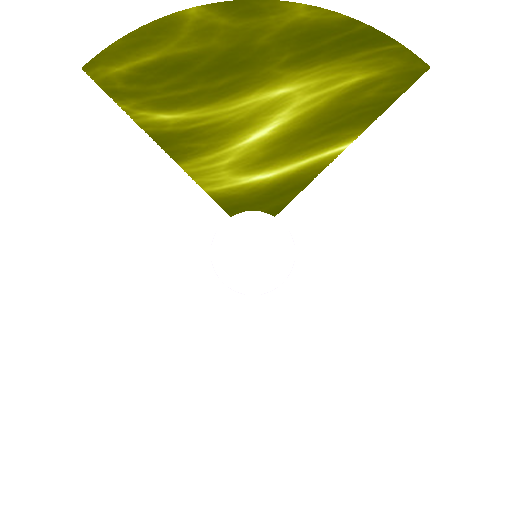
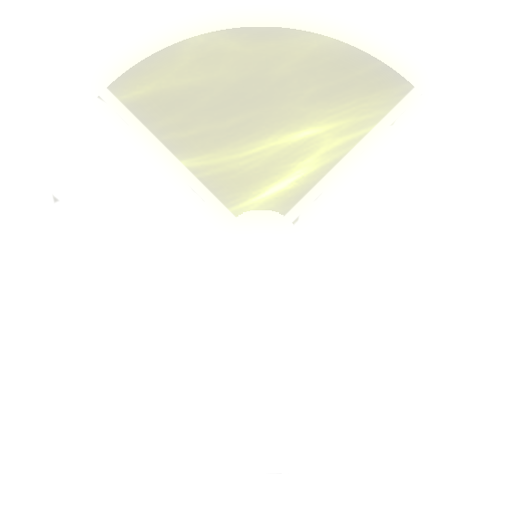
Fixed smoke showing up in the wrong spot in a very disgusting way. Updated push graphics.

Changed region(s): [[0.1562, 0.0, 0.8438, 0.4375]]

diff --git a/Entities/Collidables/EventTrigger.cpp b/Entities/Collidables/EventTrigger.cpp
@@ -20,99 +20,99 @@ void EventTrigger::Render()
 		switch (triggerType)
 		{
 		case (int)triggerID::tutMovement:
-			graphics->DrawRectangle(SGD::Rectangle{ { screenSize.width * .35f, screenSize.height * .6f }, SGD::Size{ screenSize.width * .3f, screenSize.height * .15f } }, { 200, 0, 0, 0 }, { 200, 255, 255, 255 }, 2);
-			Game::GetInstance()->FontSmall.WriteCenter({ { screenSize.width * .35f, screenSize.height * .62f }, SGD::Size{ screenSize.width * .3f, screenSize.height * .05f } }, "Basic Movement");
-			Game::GetInstance()->FontSmall.WriteCenter({ { screenSize.width * .35f, screenSize.height * .68f }, SGD::Size{ screenSize.width * .3f, screenSize.height * .05f } }, "WASD to move. Mouse to aim.");
+			graphics->DrawRectangle(SGD::Rectangle{ { screenSize.width * .30f, screenSize.height * .6f }, SGD::Size{ screenSize.width * .4f, screenSize.height * .15f } }, { 200, 0, 0, 0 }, { 200, 255, 255, 255 }, 2);
+			Game::GetInstance()->FontSmall.WriteCenter({ { screenSize.width * .30f, screenSize.height * .62f }, SGD::Size{ screenSize.width * .4f, screenSize.height * .05f } }, "Basic Movement");
+			Game::GetInstance()->FontSmall.WriteCenter({ { screenSize.width * .30f, screenSize.height * .68f }, SGD::Size{ screenSize.width * .4f, screenSize.height * .05f } }, "WASD to move. Mouse to aim.");
 			break;
 		case (int)triggerID::tutLasers:
-			graphics->DrawRectangle(SGD::Rectangle{ { screenSize.width * .35f, screenSize.height * .6f }, SGD::Size{ screenSize.width * .3f, screenSize.height * .15f } }, { 200, 0, 0, 0 }, { 200, 255, 255, 255 }, 2);
-			Game::GetInstance()->FontSmall.WriteCenter({ { screenSize.width * .35f, screenSize.height * .62f }, SGD::Size{ screenSize.width * .3f, screenSize.height * .05f } }, "Lasers");
-			Game::GetInstance()->FontSmall.WriteCenter({ { screenSize.width * .35f, screenSize.height * .68f }, SGD::Size{ screenSize.width * .3f, screenSize.height * .05f } }, "Left click to fire lasers.");
+			graphics->DrawRectangle(SGD::Rectangle{ { screenSize.width * .30f, screenSize.height * .6f }, SGD::Size{ screenSize.width * .4f, screenSize.height * .15f } }, { 200, 0, 0, 0 }, { 200, 255, 255, 255 }, 2);
+			Game::GetInstance()->FontSmall.WriteCenter({ { screenSize.width * .30f, screenSize.height * .62f }, SGD::Size{ screenSize.width * .4f, screenSize.height * .05f } }, "Lasers");
+			Game::GetInstance()->FontSmall.WriteCenter({ { screenSize.width * .30f, screenSize.height * .68f }, SGD::Size{ screenSize.width * .4f, screenSize.height * .05f } }, "Left click to fire lasers.");
 			break;
 		case (int)triggerID::tutMissiles:
-			graphics->DrawRectangle(SGD::Rectangle{ { screenSize.width * .35f, screenSize.height * .6f }, SGD::Size{ screenSize.width * .3f, screenSize.height * .15f } }, { 200, 0, 0, 0 }, { 200, 255, 255, 255 }, 2);
-			Game::GetInstance()->FontSmall.WriteCenter({ { screenSize.width * .35f, screenSize.height * .62f }, SGD::Size{ screenSize.width * .3f, screenSize.height * .05f } }, "Missiles");
-			Game::GetInstance()->FontSmall.WriteCenter({ { screenSize.width * .35f, screenSize.height * .68f }, SGD::Size{ screenSize.width * .3f, screenSize.height * .05f } }, "Right click to fire missiles.");
+			graphics->DrawRectangle(SGD::Rectangle{ { screenSize.width * .30f, screenSize.height * .6f }, SGD::Size{ screenSize.width * .4f, screenSize.height * .15f } }, { 200, 0, 0, 0 }, { 200, 255, 255, 255 }, 2);
+			Game::GetInstance()->FontSmall.WriteCenter({ { screenSize.width * .30f, screenSize.height * .62f }, SGD::Size{ screenSize.width * .4f, screenSize.height * .05f } }, "Missiles");
+			Game::GetInstance()->FontSmall.WriteCenter({ { screenSize.width * .30f, screenSize.height * .68f }, SGD::Size{ screenSize.width * .4f, screenSize.height * .05f } }, "Right click to fire missiles.");
 			break;
 		case (int)triggerID::tutWarp:
-			graphics->DrawRectangle(SGD::Rectangle{ { screenSize.width * .35f, screenSize.height * .6f }, SGD::Size{ screenSize.width * .3f, screenSize.height * .15f } }, { 200, 0, 0, 0 }, { 200, 255, 255, 255 }, 2);
-			Game::GetInstance()->FontSmall.WriteCenter({ { screenSize.width * .35f, screenSize.height * .60f }, SGD::Size{ screenSize.width * .3f, screenSize.height * .05f } }, "Warp");
-			Game::GetInstance()->FontSmall.WriteCenter({ { screenSize.width * .35f, screenSize.height * .63f }, SGD::Size{ screenSize.width * .3f, screenSize.height * .05f } }, "Hit Space to Warp.");
-			Game::GetInstance()->FontSmall.WriteCenter({ { screenSize.width * .35f, screenSize.height * .67f }, SGD::Size{ screenSize.width * .3f, screenSize.height * .05f } }, "Warping allows you");
-			Game::GetInstance()->FontSmall.WriteCenter({ { screenSize.width * .35f, screenSize.height * .69f }, SGD::Size{ screenSize.width * .3f, screenSize.height * .05f } }, "to evade incoming fire.");
+			graphics->DrawRectangle(SGD::Rectangle{ { screenSize.width * .30f, screenSize.height * .6f }, SGD::Size{ screenSize.width * .4f, screenSize.height * .15f } }, { 200, 0, 0, 0 }, { 200, 255, 255, 255 }, 2);
+			Game::GetInstance()->FontSmall.WriteCenter({ { screenSize.width * .30f, screenSize.height * .60f }, SGD::Size{ screenSize.width * .4f, screenSize.height * .05f } }, "Warp");
+			Game::GetInstance()->FontSmall.WriteCenter({ { screenSize.width * .30f, screenSize.height * .63f }, SGD::Size{ screenSize.width * .4f, screenSize.height * .05f } }, "Hit Space to Warp.");
+			Game::GetInstance()->FontSmall.WriteCenter({ { screenSize.width * .30f, screenSize.height * .67f }, SGD::Size{ screenSize.width * .4f, screenSize.height * .05f } }, "Warping allows you");
+			Game::GetInstance()->FontSmall.WriteCenter({ { screenSize.width * .30f, screenSize.height * .69f }, SGD::Size{ screenSize.width * .4f, screenSize.height * .05f } }, "to evade incoming fire.");
 			break;
 		case (int)triggerID::tutWell:
-			graphics->DrawRectangle(SGD::Rectangle{ { screenSize.width * .35f, screenSize.height * .6f }, SGD::Size{ screenSize.width * .3f, screenSize.height * .15f } }, { 200, 0, 0, 0 }, { 200, 255, 255, 255 }, 2);
-			Game::GetInstance()->FontSmall.WriteCenter({ { screenSize.width * .35f, screenSize.height * .60f }, SGD::Size{ screenSize.width * .3f, screenSize.height * .05f } }, "Well");
-			Game::GetInstance()->FontSmall.WriteCenter({ { screenSize.width * .35f, screenSize.height * .63f }, SGD::Size{ screenSize.width * .3f, screenSize.height * .05f } }, "Hit Q to spawn a Gravity Well.");
-			Game::GetInstance()->FontSmall.WriteCenter({ { screenSize.width * .35f, screenSize.height * .67f }, SGD::Size{ screenSize.width * .3f, screenSize.height * .05f } }, "Gravity Well will suck in everything");
-			Game::GetInstance()->FontSmall.WriteCenter({ { screenSize.width * .35f, screenSize.height * .69f }, SGD::Size{ screenSize.width * .3f, screenSize.height * .05f } }, "of appropriate size.");
+			graphics->DrawRectangle(SGD::Rectangle{ { screenSize.width * .30f, screenSize.height * .6f }, SGD::Size{ screenSize.width * .4f, screenSize.height * .15f } }, { 200, 0, 0, 0 }, { 200, 255, 255, 255 }, 2);
+			Game::GetInstance()->FontSmall.WriteCenter({ { screenSize.width * .30f, screenSize.height * .60f }, SGD::Size{ screenSize.width * .4f, screenSize.height * .05f } }, "Well");
+			Game::GetInstance()->FontSmall.WriteCenter({ { screenSize.width * .30f, screenSize.height * .63f }, SGD::Size{ screenSize.width * .4f, screenSize.height * .05f } }, "Hit Q to spawn a Gravity Well.");
+			Game::GetInstance()->FontSmall.WriteCenter({ { screenSize.width * .30f, screenSize.height * .67f }, SGD::Size{ screenSize.width * .4f, screenSize.height * .05f } }, "Gravity Well will suck in everything");
+			Game::GetInstance()->FontSmall.WriteCenter({ { screenSize.width * .30f, screenSize.height * .69f }, SGD::Size{ screenSize.width * .4f, screenSize.height * .05f } }, "of appropriate size.");
 			break;
 		case (int)triggerID::tutPush:
-			graphics->DrawRectangle(SGD::Rectangle{ { screenSize.width * .35f, screenSize.height * .6f }, SGD::Size{ screenSize.width * .3f, screenSize.height * .15f } }, { 200, 0, 0, 0 }, { 200, 255, 255, 255 }, 2);
-			Game::GetInstance()->FontSmall.WriteCenter({ { screenSize.width * .35f, screenSize.height * .60f }, SGD::Size{ screenSize.width * .3f, screenSize.height * .05f } }, "Push");
-			Game::GetInstance()->FontSmall.WriteCenter({ { screenSize.width * .35f, screenSize.height * .63f }, SGD::Size{ screenSize.width * .3f, screenSize.height * .05f } }, "Hit E to use Gravity Push.");
-			Game::GetInstance()->FontSmall.WriteCenter({ { screenSize.width * .35f, screenSize.height * .67f }, SGD::Size{ screenSize.width * .3f, screenSize.height * .05f } }, "Gravity Push will reflect everything");
-			Game::GetInstance()->FontSmall.WriteCenter({ { screenSize.width * .35f, screenSize.height * .69f }, SGD::Size{ screenSize.width * .3f, screenSize.height * .05f } }, "in an arc in front of you.");
+			graphics->DrawRectangle(SGD::Rectangle{ { screenSize.width * .30f, screenSize.height * .6f }, SGD::Size{ screenSize.width * .4f, screenSize.height * .15f } }, { 200, 0, 0, 0 }, { 200, 255, 255, 255 }, 2);
+			Game::GetInstance()->FontSmall.WriteCenter({ { screenSize.width * .30f, screenSize.height * .60f }, SGD::Size{ screenSize.width * .4f, screenSize.height * .05f } }, "Push");
+			Game::GetInstance()->FontSmall.WriteCenter({ { screenSize.width * .30f, screenSize.height * .63f }, SGD::Size{ screenSize.width * .4f, screenSize.height * .05f } }, "Hit E to use Gravity Push.");
+			Game::GetInstance()->FontSmall.WriteCenter({ { screenSize.width * .30f, screenSize.height * .67f }, SGD::Size{ screenSize.width * .4f, screenSize.height * .05f } }, "Gravity Push will reflect everything");
+			Game::GetInstance()->FontSmall.WriteCenter({ { screenSize.width * .30f, screenSize.height * .69f }, SGD::Size{ screenSize.width * .4f, screenSize.height * .05f } }, "in an arc in front of you.");
 			break;
 		case (int)triggerID::tutArrows:
-			graphics->DrawRectangle(SGD::Rectangle{ { screenSize.width * .35f, screenSize.height * .6f }, SGD::Size{ screenSize.width * .3f, screenSize.height * .15f } }, { 200, 0, 0, 0 }, { 200, 255, 255, 255 }, 2);
-			Game::GetInstance()->FontSmall.WriteCenter({ { screenSize.width * .35f, screenSize.height * .60f }, SGD::Size{ screenSize.width * .3f, screenSize.height * .05f } }, "Arrow Indicators");
-			Game::GetInstance()->FontSmall.WriteCenter({ { screenSize.width * .35f, screenSize.height * .63f }, SGD::Size{ screenSize.width * .3f, screenSize.height * .05f } }, "Hit Tab to toggle the compass.");
-			Game::GetInstance()->FontSmall.WriteCenter({ { screenSize.width * .35f, screenSize.height * .67f }, SGD::Size{ screenSize.width * .3f, screenSize.height * .05f } }, "Arrows point to current objectives.");
-			Game::GetInstance()->FontSmall.WriteCenter({ { screenSize.width * .35f, screenSize.height * .69f }, SGD::Size{ screenSize.width * .3f, screenSize.height * .05f } }, "Toggle them on/off at any time.");
+			graphics->DrawRectangle(SGD::Rectangle{ { screenSize.width * .30f, screenSize.height * .6f }, SGD::Size{ screenSize.width * .4f, screenSize.height * .15f } }, { 200, 0, 0, 0 }, { 200, 255, 255, 255 }, 2);
+			Game::GetInstance()->FontSmall.WriteCenter({ { screenSize.width * .30f, screenSize.height * .60f }, SGD::Size{ screenSize.width * .4f, screenSize.height * .05f } }, "Arrow Indicators");
+			Game::GetInstance()->FontSmall.WriteCenter({ { screenSize.width * .30f, screenSize.height * .63f }, SGD::Size{ screenSize.width * .4f, screenSize.height * .05f } }, "Hit Tab to toggle the compass.");
+			Game::GetInstance()->FontSmall.WriteCenter({ { screenSize.width * .30f, screenSize.height * .67f }, SGD::Size{ screenSize.width * .4f, screenSize.height * .05f } }, "Arrows point to current objectives.");
+			Game::GetInstance()->FontSmall.WriteCenter({ { screenSize.width * .30f, screenSize.height * .69f }, SGD::Size{ screenSize.width * .4f, screenSize.height * .05f } }, "Toggle them on/off at any time.");
 			break;
 		case (int)triggerID::tutArrowsTwo:
-			graphics->DrawRectangle(SGD::Rectangle{ { screenSize.width * .35f, screenSize.height * .6f }, SGD::Size{ screenSize.width * .3f, screenSize.height * .15f } }, { 200, 0, 0, 0 }, { 200, 255, 255, 255 }, 2);
-			Game::GetInstance()->FontSmall.WriteCenter({ { screenSize.width * .35f, screenSize.height * .60f }, SGD::Size{ screenSize.width * .3f, screenSize.height * .05f } }, "Arrow Indicators");
-			Game::GetInstance()->FontSmall.WriteCenter({ { screenSize.width * .35f, screenSize.height * .63f }, SGD::Size{ screenSize.width * .3f, screenSize.height * .05f } }, "Yellow - Stargate");
-			Game::GetInstance()->FontSmall.WriteCenter({ { screenSize.width * .35f, screenSize.height * .65f }, SGD::Size{ screenSize.width * .3f, screenSize.height * .05f } }, "Red - Enemy Flock");
-			Game::GetInstance()->FontSmall.WriteCenter({ { screenSize.width * .35f, screenSize.height * .67f }, SGD::Size{ screenSize.width * .3f, screenSize.height * .05f } }, "Orange - Coordinator");
-			Game::GetInstance()->FontSmall.WriteCenter({ { screenSize.width * .35f, screenSize.height * .69f }, SGD::Size{ screenSize.width * .3f, screenSize.height * .05f } }, "Blue - Allied Ship");
+			graphics->DrawRectangle(SGD::Rectangle{ { screenSize.width * .30f, screenSize.height * .6f }, SGD::Size{ screenSize.width * .4f, screenSize.height * .15f } }, { 200, 0, 0, 0 }, { 200, 255, 255, 255 }, 2);
+			Game::GetInstance()->FontSmall.WriteCenter({ { screenSize.width * .30f, screenSize.height * .60f }, SGD::Size{ screenSize.width * .4f, screenSize.height * .05f } }, "Arrow Indicators");
+			Game::GetInstance()->FontSmall.WriteCenter({ { screenSize.width * .30f, screenSize.height * .63f }, SGD::Size{ screenSize.width * .4f, screenSize.height * .05f } }, "Yellow - Stargate");
+			Game::GetInstance()->FontSmall.WriteCenter({ { screenSize.width * .30f, screenSize.height * .65f }, SGD::Size{ screenSize.width * .4f, screenSize.height * .05f } }, "Red - Enemy Flock");
+			Game::GetInstance()->FontSmall.WriteCenter({ { screenSize.width * .30f, screenSize.height * .67f }, SGD::Size{ screenSize.width * .4f, screenSize.height * .05f } }, "Orange - Coordinator");
+			Game::GetInstance()->FontSmall.WriteCenter({ { screenSize.width * .30f, screenSize.height * .69f }, SGD::Size{ screenSize.width * .4f, screenSize.height * .05f } }, "Blue - Allied Ship");
 			break;
 		case (int)triggerID::tutCoordinator:
-			graphics->DrawRectangle(SGD::Rectangle{ { screenSize.width * .35f, screenSize.height * .6f }, SGD::Size{ screenSize.width * .3f, screenSize.height * .15f } }, { 200, 0, 0, 0 }, { 200, 255, 255, 255 }, 2);
-			Game::GetInstance()->FontSmall.WriteCenter({ { screenSize.width * .35f, screenSize.height * .60f }, SGD::Size{ screenSize.width * .3f, screenSize.height * .05f } }, "Coordinator");
-			Game::GetInstance()->FontSmall.WriteCenter({ { screenSize.width * .35f, screenSize.height * .63f }, SGD::Size{ screenSize.width * .3f, screenSize.height * .05f } }, "Coordinators handle enemy back-up");
-			Game::GetInstance()->FontSmall.WriteCenter({ { screenSize.width * .35f, screenSize.height * .65f }, SGD::Size{ screenSize.width * .3f, screenSize.height * .05f } }, "calls. Killing them prevents these");
-			Game::GetInstance()->FontSmall.WriteCenter({ { screenSize.width * .35f, screenSize.height * .67f }, SGD::Size{ screenSize.width * .3f, screenSize.height * .05f } }, "calls as well as provides you with");
-			Game::GetInstance()->FontSmall.WriteCenter({ { screenSize.width * .35f, screenSize.height * .69f }, SGD::Size{ screenSize.width * .3f, screenSize.height * .05f } }, "arrows to remaining enemy flocks.");
+			graphics->DrawRectangle(SGD::Rectangle{ { screenSize.width * .30f, screenSize.height * .6f }, SGD::Size{ screenSize.width * .4f, screenSize.height * .15f } }, { 200, 0, 0, 0 }, { 200, 255, 255, 255 }, 2);
+			Game::GetInstance()->FontSmall.WriteCenter({ { screenSize.width * .30f, screenSize.height * .60f }, SGD::Size{ screenSize.width * .4f, screenSize.height * .05f } }, "Coordinator");
+			Game::GetInstance()->FontSmall.WriteCenter({ { screenSize.width * .30f, screenSize.height * .63f }, SGD::Size{ screenSize.width * .4f, screenSize.height * .05f } }, "Coordinators handle enemy back-up");
+			Game::GetInstance()->FontSmall.WriteCenter({ { screenSize.width * .30f, screenSize.height * .65f }, SGD::Size{ screenSize.width * .4f, screenSize.height * .05f } }, "calls. Killing them prevents these");
+			Game::GetInstance()->FontSmall.WriteCenter({ { screenSize.width * .30f, screenSize.height * .67f }, SGD::Size{ screenSize.width * .4f, screenSize.height * .05f } }, "calls as well as provides you with");
+			Game::GetInstance()->FontSmall.WriteCenter({ { screenSize.width * .30f, screenSize.height * .69f }, SGD::Size{ screenSize.width * .4f, screenSize.height * .05f } }, "arrows to remaining enemy flocks.");
 			break;
 		case (int)triggerID::tutHuman:
-			graphics->DrawRectangle(SGD::Rectangle{ { screenSize.width * .35f, screenSize.height * .6f }, SGD::Size{ screenSize.width * .3f, screenSize.height * .15f } }, { 200, 0, 0, 0 }, { 200, 255, 255, 255 }, 2);
-			Game::GetInstance()->FontSmall.WriteCenter({ { screenSize.width * .35f, screenSize.height * .60f }, SGD::Size{ screenSize.width * .3f, screenSize.height * .05f } }, "Human Ship");
-			Game::GetInstance()->FontSmall.WriteCenter({ { screenSize.width * .35f, screenSize.height * .63f }, SGD::Size{ screenSize.width * .3f, screenSize.height * .05f } }, "Saving human ships will reward");
-			Game::GetInstance()->FontSmall.WriteCenter({ { screenSize.width * .35f, screenSize.height * .65f }, SGD::Size{ screenSize.width * .3f, screenSize.height * .05f } }, "you with experience,");
-			Game::GetInstance()->FontSmall.WriteCenter({ { screenSize.width * .35f, screenSize.height * .67f }, SGD::Size{ screenSize.width * .3f, screenSize.height * .05f } }, "as well as provide more aid");
-			Game::GetInstance()->FontSmall.WriteCenter({ { screenSize.width * .35f, screenSize.height * .69f }, SGD::Size{ screenSize.width * .3f, screenSize.height * .05f } }, "in the final battle.");
+			graphics->DrawRectangle(SGD::Rectangle{ { screenSize.width * .30f, screenSize.height * .6f }, SGD::Size{ screenSize.width * .4f, screenSize.height * .15f } }, { 200, 0, 0, 0 }, { 200, 255, 255, 255 }, 2);
+			Game::GetInstance()->FontSmall.WriteCenter({ { screenSize.width * .30f, screenSize.height * .60f }, SGD::Size{ screenSize.width * .4f, screenSize.height * .05f } }, "Human Ship");
+			Game::GetInstance()->FontSmall.WriteCenter({ { screenSize.width * .30f, screenSize.height * .63f }, SGD::Size{ screenSize.width * .4f, screenSize.height * .05f } }, "Saving human ships will reward");
+			Game::GetInstance()->FontSmall.WriteCenter({ { screenSize.width * .30f, screenSize.height * .65f }, SGD::Size{ screenSize.width * .4f, screenSize.height * .05f } }, "you with experience,");
+			Game::GetInstance()->FontSmall.WriteCenter({ { screenSize.width * .30f, screenSize.height * .67f }, SGD::Size{ screenSize.width * .4f, screenSize.height * .05f } }, "as well as provide more aid");
+			Game::GetInstance()->FontSmall.WriteCenter({ { screenSize.width * .30f, screenSize.height * .69f }, SGD::Size{ screenSize.width * .4f, screenSize.height * .05f } }, "in the final battle.");
 			break;
 		case (int)triggerID::tutUpgrade:
-			graphics->DrawRectangle(SGD::Rectangle{ { screenSize.width * .35f, screenSize.height * .6f }, SGD::Size{ screenSize.width * .3f, screenSize.height * .15f } }, { 200, 0, 0, 0 }, { 200, 255, 255, 255 }, 2);
-			Game::GetInstance()->FontSmall.WriteCenter({ { screenSize.width * .35f, screenSize.height * .60f }, SGD::Size{ screenSize.width * .3f, screenSize.height * .05f } }, "Upgrades");
-			Game::GetInstance()->FontSmall.WriteCenter({ { screenSize.width * .35f, screenSize.height * .63f }, SGD::Size{ screenSize.width * .3f, screenSize.height * .05f } }, "Press Escape for the Upgrade menu.");
-			Game::GetInstance()->FontSmall.WriteCenter({ { screenSize.width * .35f, screenSize.height * .67f }, SGD::Size{ screenSize.width * .3f, screenSize.height * .05f } }, "Each level you gain one perk.");
-			Game::GetInstance()->FontSmall.WriteCenter({ { screenSize.width * .35f, screenSize.height * .69f }, SGD::Size{ screenSize.width * .3f, screenSize.height * .05f } }, "Spend them wisely!");
+			graphics->DrawRectangle(SGD::Rectangle{ { screenSize.width * .30f, screenSize.height * .6f }, SGD::Size{ screenSize.width * .4f, screenSize.height * .15f } }, { 200, 0, 0, 0 }, { 200, 255, 255, 255 }, 2);
+			Game::GetInstance()->FontSmall.WriteCenter({ { screenSize.width * .30f, screenSize.height * .60f }, SGD::Size{ screenSize.width * .4f, screenSize.height * .05f } }, "Upgrades");
+			Game::GetInstance()->FontSmall.WriteCenter({ { screenSize.width * .30f, screenSize.height * .63f }, SGD::Size{ screenSize.width * .4f, screenSize.height * .05f } }, "Press Escape for the Upgrade menu.");
+			Game::GetInstance()->FontSmall.WriteCenter({ { screenSize.width * .30f, screenSize.height * .67f }, SGD::Size{ screenSize.width * .4f, screenSize.height * .05f } }, "Each level you gain one perk.");
+			Game::GetInstance()->FontSmall.WriteCenter({ { screenSize.width * .30f, screenSize.height * .69f }, SGD::Size{ screenSize.width * .4f, screenSize.height * .05f } }, "Spend them wisely!");
 			break;
 		case (int)triggerID::tutBoss:
-			graphics->DrawRectangle(SGD::Rectangle{ { screenSize.width * .35f, screenSize.height * .6f }, SGD::Size{ screenSize.width * .3f, screenSize.height * .15f } }, { 200, 0, 0, 0 }, { 200, 255, 255, 255 }, 2);
-			Game::GetInstance()->FontSmall.WriteCenter({ { screenSize.width * .35f, screenSize.height * .60f }, SGD::Size{ screenSize.width * .3f, screenSize.height * .05f } }, "Boss");
-			Game::GetInstance()->FontSmall.WriteCenter({ { screenSize.width * .35f, screenSize.height * .63f }, SGD::Size{ screenSize.width * .3f, screenSize.height * .05f } }, "Each level has a boss with a");
-			Game::GetInstance()->FontSmall.WriteCenter({ { screenSize.width * .35f, screenSize.height * .65f }, SGD::Size{ screenSize.width * .3f, screenSize.height * .05f } }, "unique mechanic. Remember to");
-			Game::GetInstance()->FontSmall.WriteCenter({ { screenSize.width * .35f, screenSize.height * .67f }, SGD::Size{ screenSize.width * .3f, screenSize.height * .05f } }, "use your abilities!");
+			graphics->DrawRectangle(SGD::Rectangle{ { screenSize.width * .30f, screenSize.height * .6f }, SGD::Size{ screenSize.width * .4f, screenSize.height * .15f } }, { 200, 0, 0, 0 }, { 200, 255, 255, 255 }, 2);
+			Game::GetInstance()->FontSmall.WriteCenter({ { screenSize.width * .30f, screenSize.height * .60f }, SGD::Size{ screenSize.width * .4f, screenSize.height * .05f } }, "Boss");
+			Game::GetInstance()->FontSmall.WriteCenter({ { screenSize.width * .30f, screenSize.height * .63f }, SGD::Size{ screenSize.width * .4f, screenSize.height * .05f } }, "Each level has a boss with a");
+			Game::GetInstance()->FontSmall.WriteCenter({ { screenSize.width * .30f, screenSize.height * .65f }, SGD::Size{ screenSize.width * .4f, screenSize.height * .05f } }, "unique mechanic. Remember to");
+			Game::GetInstance()->FontSmall.WriteCenter({ { screenSize.width * .30f, screenSize.height * .67f }, SGD::Size{ screenSize.width * .4f, screenSize.height * .05f } }, "use your abilities!");
 			break;
 		case (int)triggerID::tutStargate:
-			graphics->DrawRectangle(SGD::Rectangle{ { screenSize.width * .35f, screenSize.height * .6f }, SGD::Size{ screenSize.width * .3f, screenSize.height * .15f } }, { 200, 0, 0, 0 }, { 200, 255, 255, 255 }, 2);
-			Game::GetInstance()->FontSmall.WriteCenter({ { screenSize.width * .35f, screenSize.height * .60f }, SGD::Size{ screenSize.width * .3f, screenSize.height * .05f } }, "Stargate");
-			Game::GetInstance()->FontSmall.WriteCenter({ { screenSize.width * .35f, screenSize.height * .63f }, SGD::Size{ screenSize.width * .3f, screenSize.height * .05f } }, "After defeating a boss, the");
-			Game::GetInstance()->FontSmall.WriteCenter({ { screenSize.width * .35f, screenSize.height * .65f }, SGD::Size{ screenSize.width * .3f, screenSize.height * .05f } }, "Stargate opens. The Stargate will");
-			Game::GetInstance()->FontSmall.WriteCenter({ { screenSize.width * .35f, screenSize.height * .67f }, SGD::Size{ screenSize.width * .3f, screenSize.height * .05f } }, "take you tothe next level.");
+			graphics->DrawRectangle(SGD::Rectangle{ { screenSize.width * .30f, screenSize.height * .6f }, SGD::Size{ screenSize.width * .4f, screenSize.height * .15f } }, { 200, 0, 0, 0 }, { 200, 255, 255, 255 }, 2);
+			Game::GetInstance()->FontSmall.WriteCenter({ { screenSize.width * .30f, screenSize.height * .60f }, SGD::Size{ screenSize.width * .4f, screenSize.height * .05f } }, "Stargate");
+			Game::GetInstance()->FontSmall.WriteCenter({ { screenSize.width * .30f, screenSize.height * .63f }, SGD::Size{ screenSize.width * .4f, screenSize.height * .05f } }, "After defeating a boss, the");
+			Game::GetInstance()->FontSmall.WriteCenter({ { screenSize.width * .30f, screenSize.height * .65f }, SGD::Size{ screenSize.width * .4f, screenSize.height * .05f } }, "Stargate opens. The Stargate will");
+			Game::GetInstance()->FontSmall.WriteCenter({ { screenSize.width * .30f, screenSize.height * .67f }, SGD::Size{ screenSize.width * .4f, screenSize.height * .05f } }, "take you tothe next level.");
 			break;
 		case (int)triggerID::finalLevel:
-			graphics->DrawRectangle(SGD::Rectangle{ { screenSize.width * .35f, screenSize.height * .6f }, SGD::Size{ screenSize.width * .3f, screenSize.height * .15f } }, { 200, 0, 0, 0 }, { 200, 255, 255, 255 }, 2);
-			Game::GetInstance()->FontSmall.WriteCenter({ { screenSize.width * .35f, screenSize.height * .60f }, SGD::Size{ screenSize.width * .3f, screenSize.height * .05f } }, "Front Lines");
-			Game::GetInstance()->FontSmall.WriteCenter({ { screenSize.width * .35f, screenSize.height * .63f }, SGD::Size{ screenSize.width * .3f, screenSize.height * .05f } }, "You've made it to the front lines!");
-			Game::GetInstance()->FontSmall.WriteCenter({ { screenSize.width * .35f, screenSize.height * .65f }, SGD::Size{ screenSize.width * .3f, screenSize.height * .05f } }, "Help save the remaining human ships");
-			Game::GetInstance()->FontSmall.WriteCenter({ { screenSize.width * .35f, screenSize.height * .67f }, SGD::Size{ screenSize.width * .3f, screenSize.height * .05f } }, "from alien forces!");
+			graphics->DrawRectangle(SGD::Rectangle{ { screenSize.width * .3f, screenSize.height * .6f }, SGD::Size{ screenSize.width * .4f, screenSize.height * .15f } }, { 200, 0, 0, 0 }, { 200, 255, 255, 255 }, 2);
+			Game::GetInstance()->FontSmall.WriteCenter({ { screenSize.width * .30f, screenSize.height * .60f }, SGD::Size{ screenSize.width * .4f, screenSize.height * .05f } }, "Front Lines");
+			Game::GetInstance()->FontSmall.WriteCenter({ { screenSize.width * .30f, screenSize.height * .63f }, SGD::Size{ screenSize.width * .4f, screenSize.height * .05f } }, "You've made it to the front lines!");
+			Game::GetInstance()->FontSmall.WriteCenter({ { screenSize.width * .30f, screenSize.height * .65f }, SGD::Size{ screenSize.width * .4f, screenSize.height * .05f } }, "Help save the remaining human ships");
+			Game::GetInstance()->FontSmall.WriteCenter({ { screenSize.width * .30f, screenSize.height * .67f }, SGD::Size{ screenSize.width * .4f, screenSize.height * .05f } }, "from alien forces!");
 			break;
 		default:
 			break;

diff --git a/Graphics/Particles/ParticleSystem.cpp b/Graphics/Particles/ParticleSystem.cpp
@@ -113,10 +113,9 @@ void  CParticleSystem::AddEmitter(int n, CEntity* owner)
 	p->Initialize();
 	p->SetOwner(owner);
 	p->SetEmitterPosition(owner->GetPosition());
+
 	standbyPool.pop_front();
 	emittingPool.push_front(p);
-
-
 }
 
 
@@ -223,8 +222,12 @@ void CParticleSystem::Update(float dt)
 		if (emittingPool.size() > 0)
 		{
 			if ((*it)->GetOwner() != nullptr)
+			{
+				if ((*it)->GetParticleData()->GetStartB() == 191 && (*it)->GetParticleData()->GetStartR() == 191 && (*it)->GetParticleData()->GetStartG() == 191)
+					(*it)->SetEmitterPosition({ (*it)->GetOwner()->GetPosition().x - 30, (*it)->GetOwner()->GetPosition().y - 44 });
+				else
 				(*it)->SetEmitterPosition((*it)->GetOwner()->GetPosition());
-
+			}
 			(*it)->Update(dt);
 
 

diff --git a/Entities/Ships/Player.cpp b/Entities/Ships/Player.cpp
@@ -79,8 +79,6 @@ CPlayer::~CPlayer()
 
 void CPlayer::Update(float dt)
 {
-	//SGD::Point test = {position.x
-
 	SGD::Vector rotatedOffset = { 0,45 };
 	rotatedOffset.Rotate(rotation);
 	enginePos = position + rotatedOffset;
@@ -449,7 +447,8 @@ void CPlayer::TakeDamage(int damage, bool collision)
 
 	
 	hull -= damage;
-	if ( (hull / maxHull) < .50f)
+	float hullPercent = (float)hull / (float)maxHull;
+	if ( hullPercent < .50f)
 		CParticleSystem::GetInstance()->AddEmitter(9, this);
 	
 	

diff --git a/Entities/Projectiles/Push.cpp b/Entities/Projectiles/Push.cpp
@@ -33,7 +33,7 @@ void CPush::Update(float dt)
 	}
 
 	else
-		alpha = 200 - 200 * (life - .10f) / .20f;
+		alpha = 255 - 255 * (life - .10f) / .20f;
 
 	CEntity::Update(dt);
 
@@ -56,7 +56,7 @@ void CPush::Render()
 		break;
 	case 3:
 		SGD::GraphicsManager::GetInstance()->DrawTexture(pushThree, offsetToCamera(), rotation, SGD::Size{ 512, 512 } *.5f, SGD::Color{ (unsigned char)alpha, (unsigned char)255, (unsigned char)255, (unsigned char)255 });
-
+		break;
 	}
 }
 
